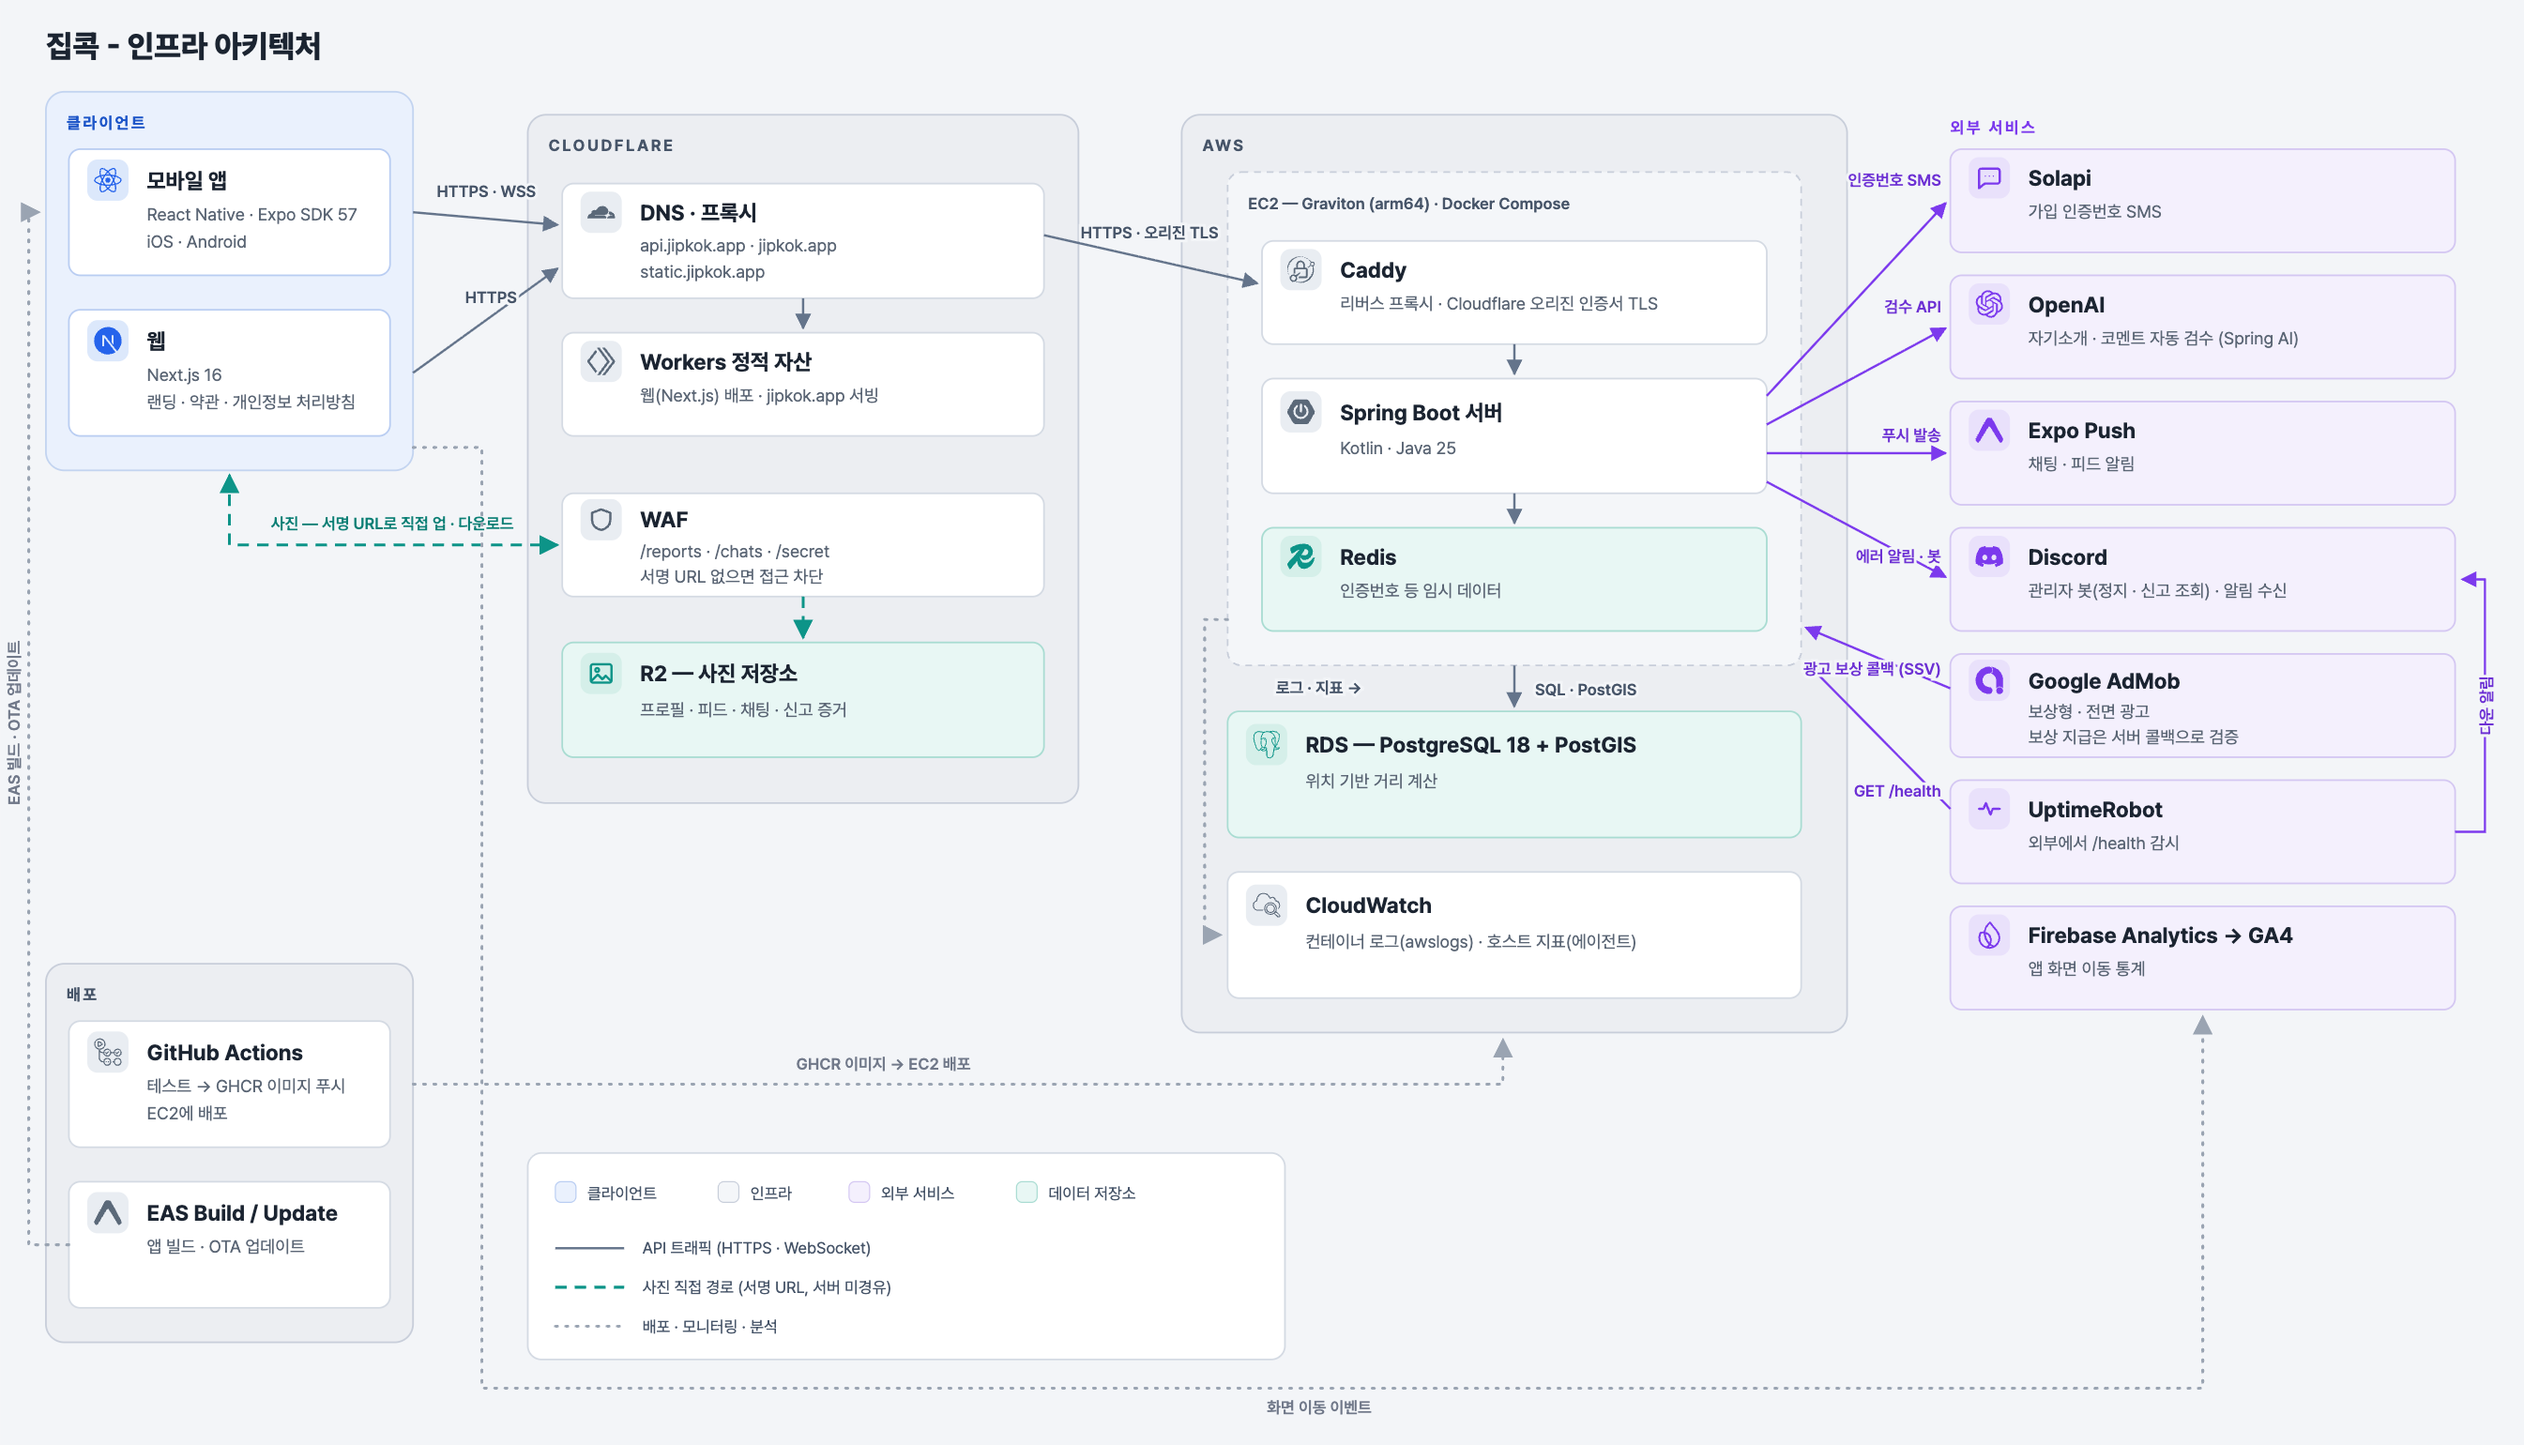
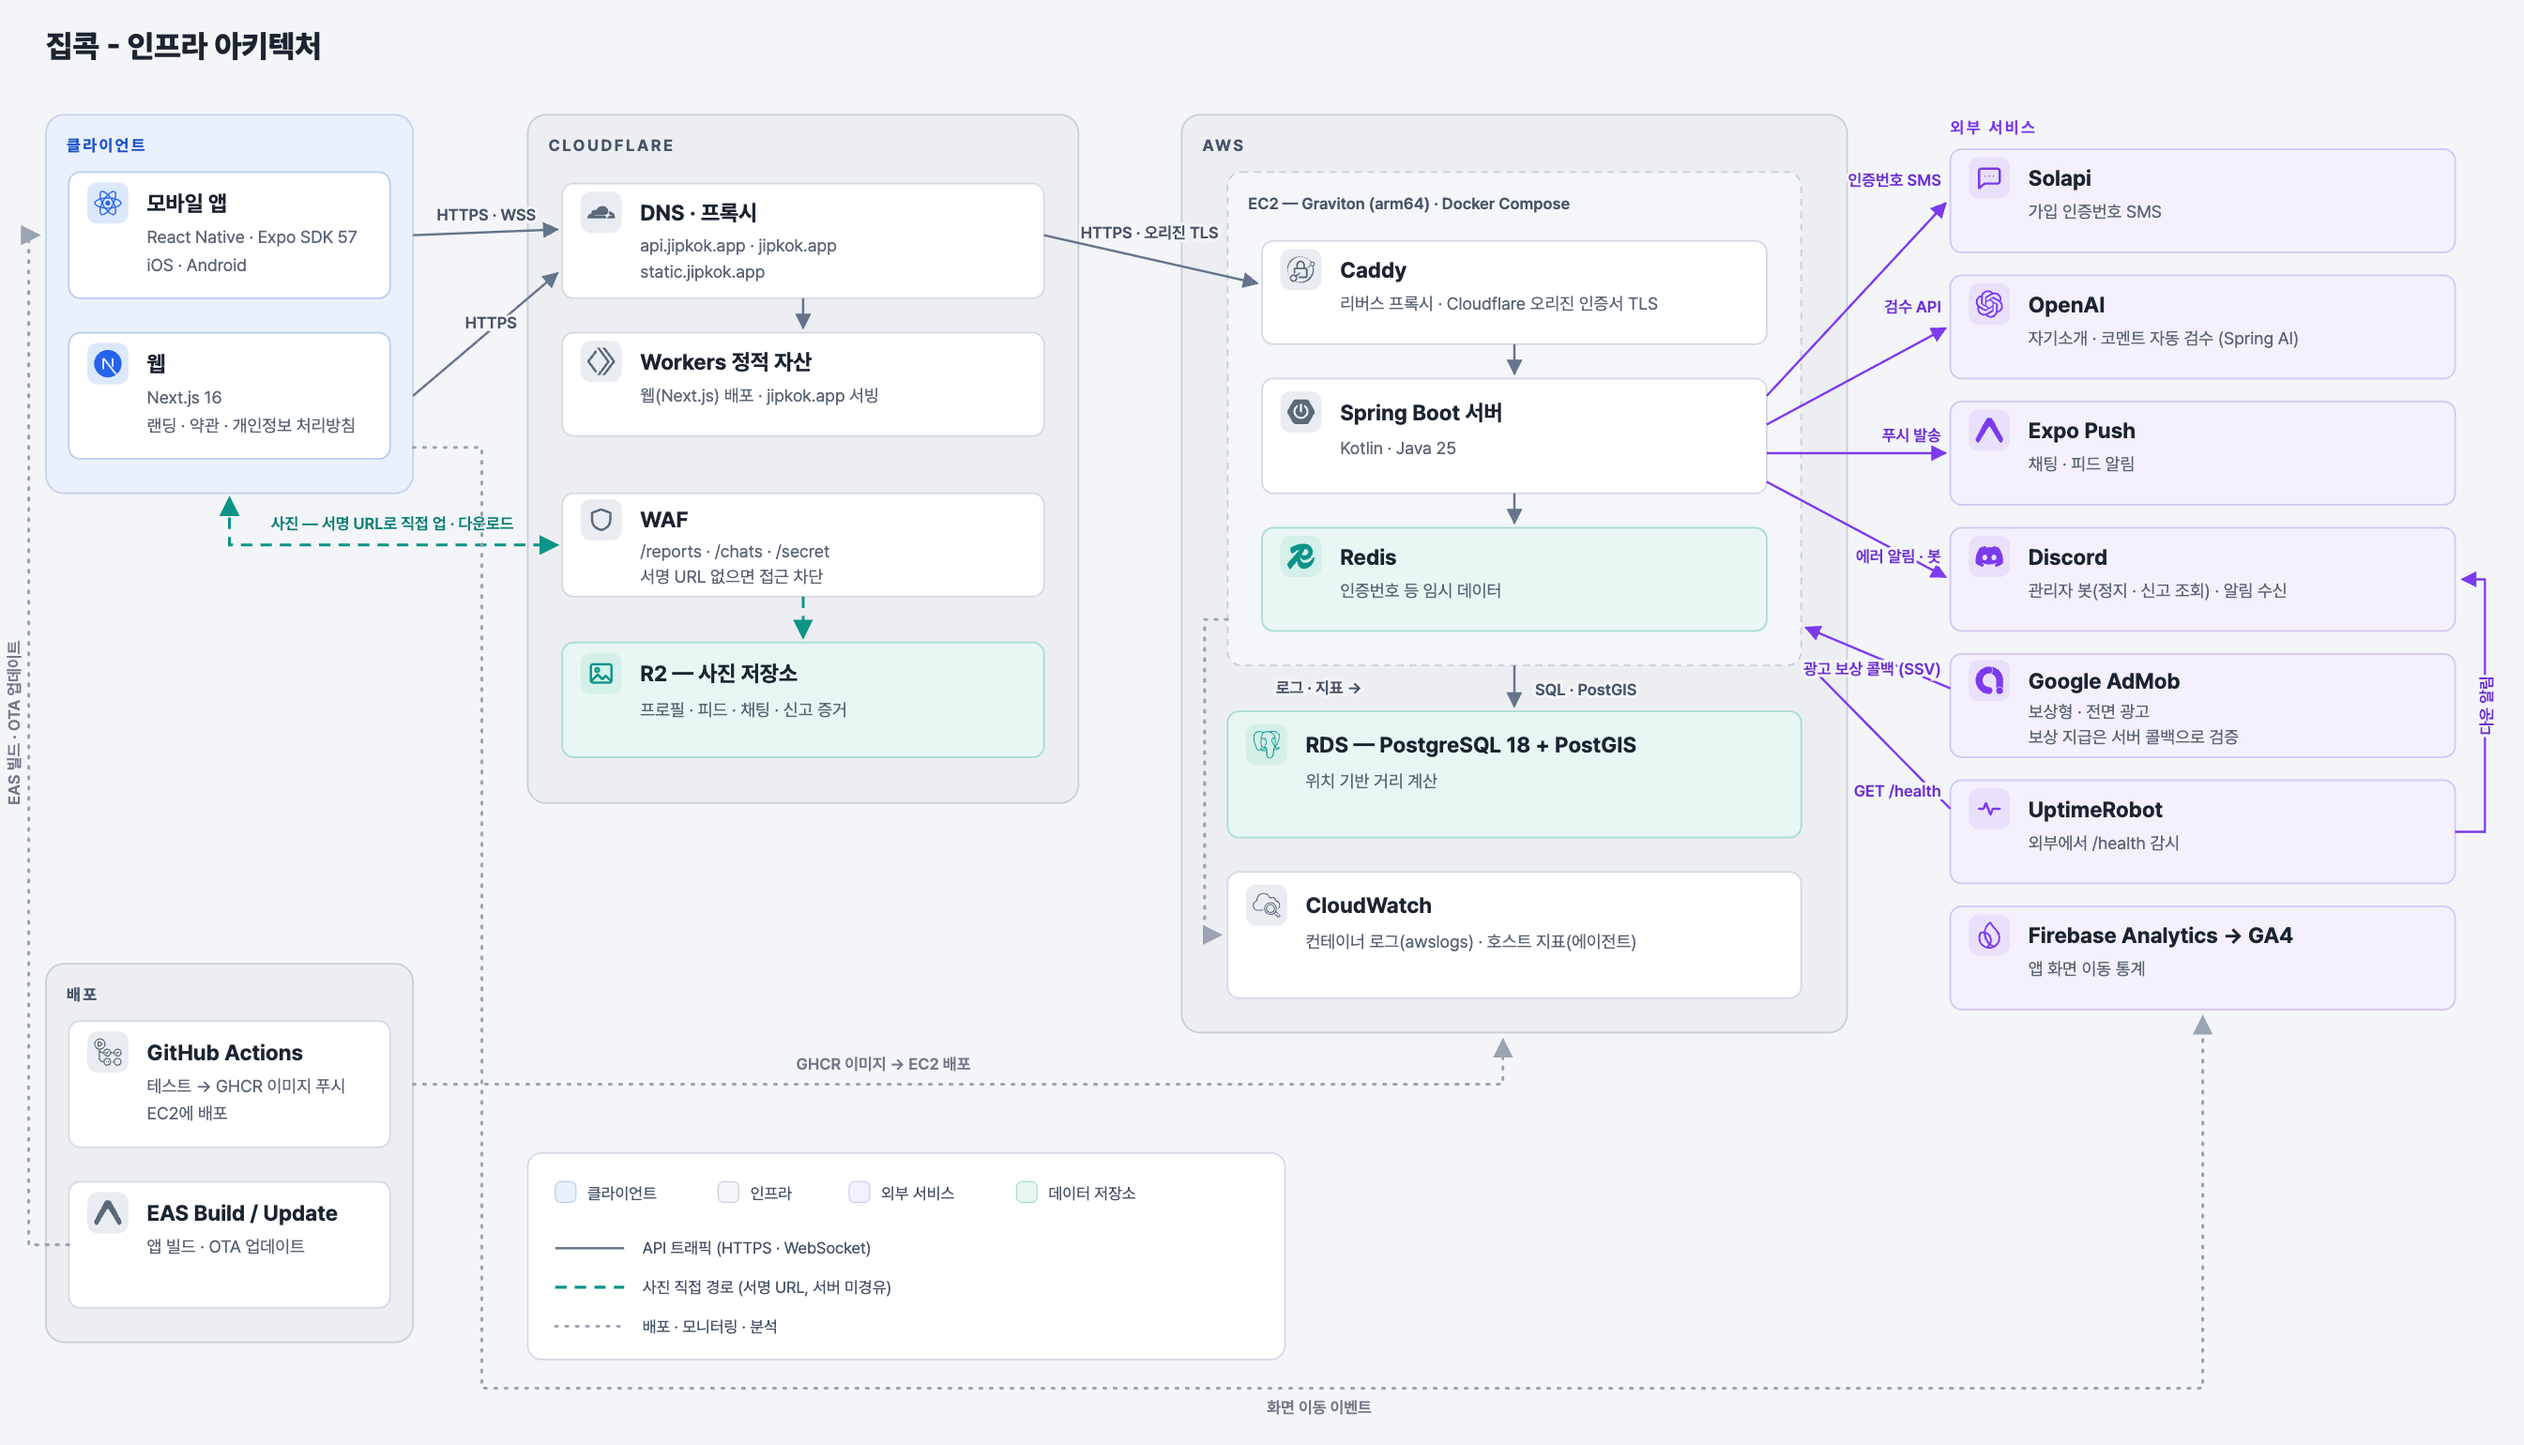
docs: 실행 화면을 README에 싣는다

Changed region(s): [[0.0312, 0.0623, 0.1561, 0.3429], [0.1874, 0.187, 0.2186, 0.2494], [0.1561, 0.1247, 0.2186, 0.1558]]

diff --git a/README.md b/README.md
@@ -10,13 +10,18 @@
 - **서버** - Kotlin 2.3, Spring Boot 4.1, Java 25, PostgreSQL 18 + PostGIS, Redis
 - **인프라** - AWS EC2 (Graviton), RDS, Cloudflare (R2, Workers, WAF), GitHub Actions
 
+## 화면
+
+| ![메인](docs/mock1.png) | ![채팅 목록](docs/mock2.png) | ![채팅방](docs/mock3.png) | ![피드](docs/mock4.png) | ![랭킹](docs/mock5.png) | ![설정](docs/mock6.png) |
+| --- | --- | --- | --- | --- | --- |
+| **메인** | **채팅 목록** | **채팅방** | **피드** | **랭킹** | **설정** |
+| 최근 접속순, 거리순 | 안읽음 표시 | 실시간 대화 | 시간대별 사진 | 받은 좋아요순 | 목록, 보상, 약관 |
+
 ## 아키텍처
 
 ![인프라 아키텍처](docs/architecture.png)
 
-모든 요청은 Cloudflare를 거쳐 EC2의 Caddy로 들어가고, Caddy가 Spring Boot 서버로 넘긴다. 서버는 도커 컴포즈로 Caddy, 애플리케이션, Redis 세 컨테이너를 띄운다.
-
-사진은 서버를 거치지 않는다. 클라이언트가 서명된 URL로 R2에 직접 올리고 직접 받아간다.
+모든 요청은 Cloudflare를 거쳐 EC2의 Caddy로 들어가고, Caddy가 Spring Boot 서버로 넘긴다. 서버는 도커 컴포즈로 Caddy, 애플리케이션, Redis 세 컨테이너를 띄운다. 사진은 서버를 거치지 않는다. 클라이언트가 서명된 URL로 R2에 직접 올리고 직접 받아간다.
 
 ## 성능 개선
 
@@ -45,7 +50,7 @@ order by geography(st_makepoint(m.longitude, m.latitude))
 
 다만 두 방식은 계산 모델이 달라서 결과가 어긋날 수 있었다. 응답에 담는 거리값은 `st_distancesphere` 그대로 두고 정렬에만 KNN을 쓰기로 하고, 5만 건으로 두 값의 순서가 뒤바뀌는 경우가 있는지 대조해 0건임을 확인한 뒤 적용했다.
 
-**채팅은 측정한 뒤 인덱스를 넣지 않기로 했다.** 메시지 조회는 0.7 ~11ms, 방 목록은 실제 방 개수 (1~6개)에서 4~12ms였다. 2000개 방이라는 비현실적인 조건에서야 362ms가 나왔다. 지금 필요하지 않은 인덱스는 쓰기 비용만 늘린다고 판단했다.
+**채팅은 측정한 뒤 인덱스를 넣지 않기로 했다.** 메시지 조회는 가장 느린 경우가 11ms, 방 목록은 실제 방 개수 (1~6개)에서 12ms였다. 2000개 방이라는 비현실적인 조건에서야 362ms가 나왔다. 지금 필요하지 않은 인덱스는 쓰기 비용만 늘린다고 판단했다.
 
 ## 기술 선택 근거
 
